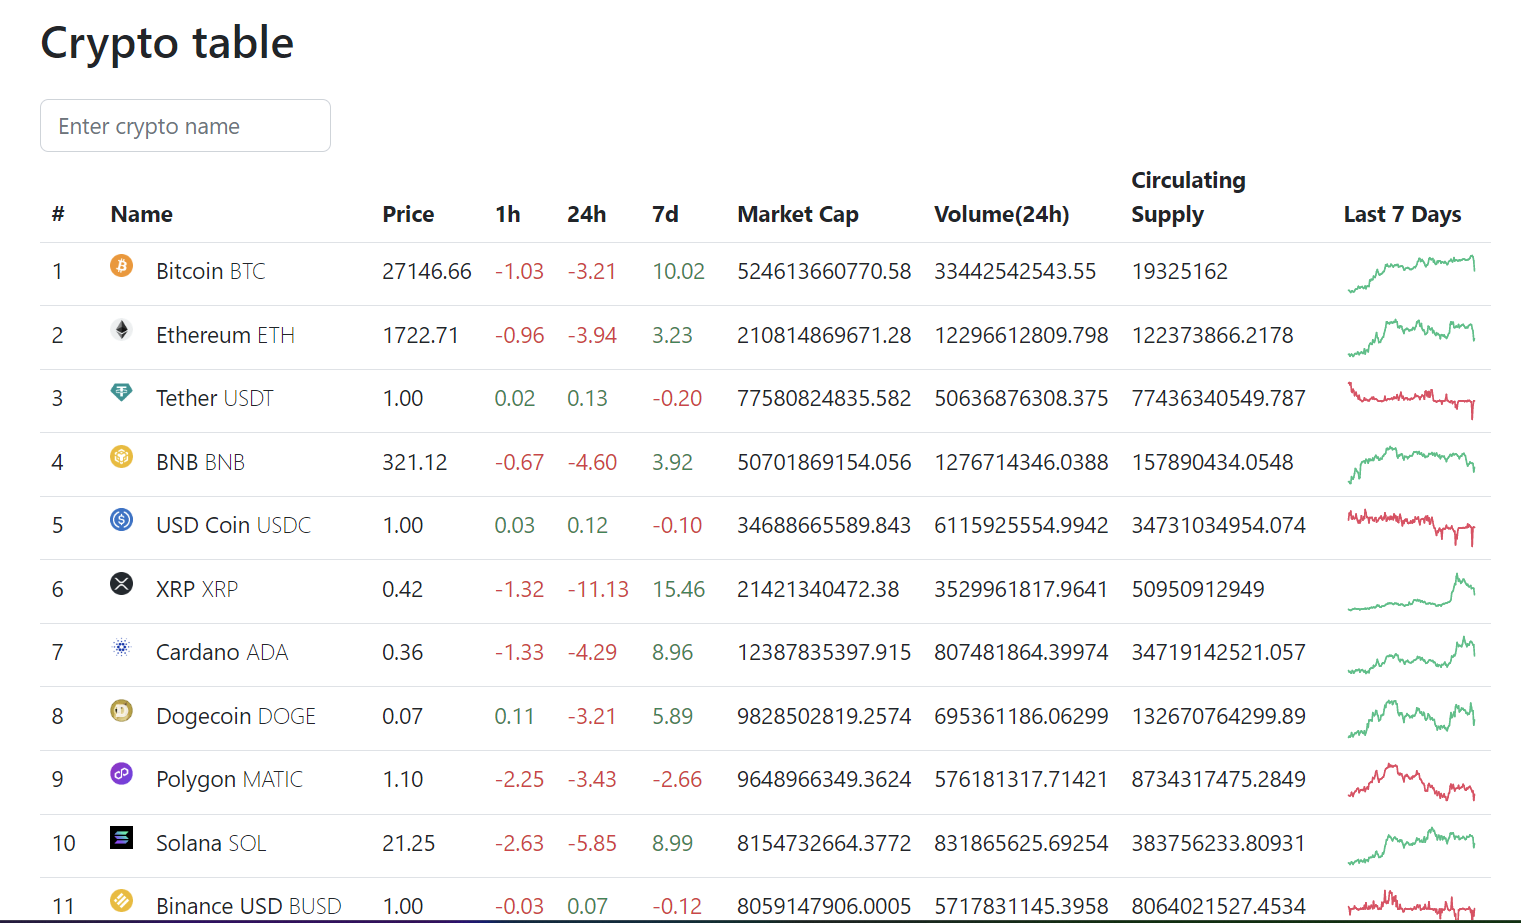
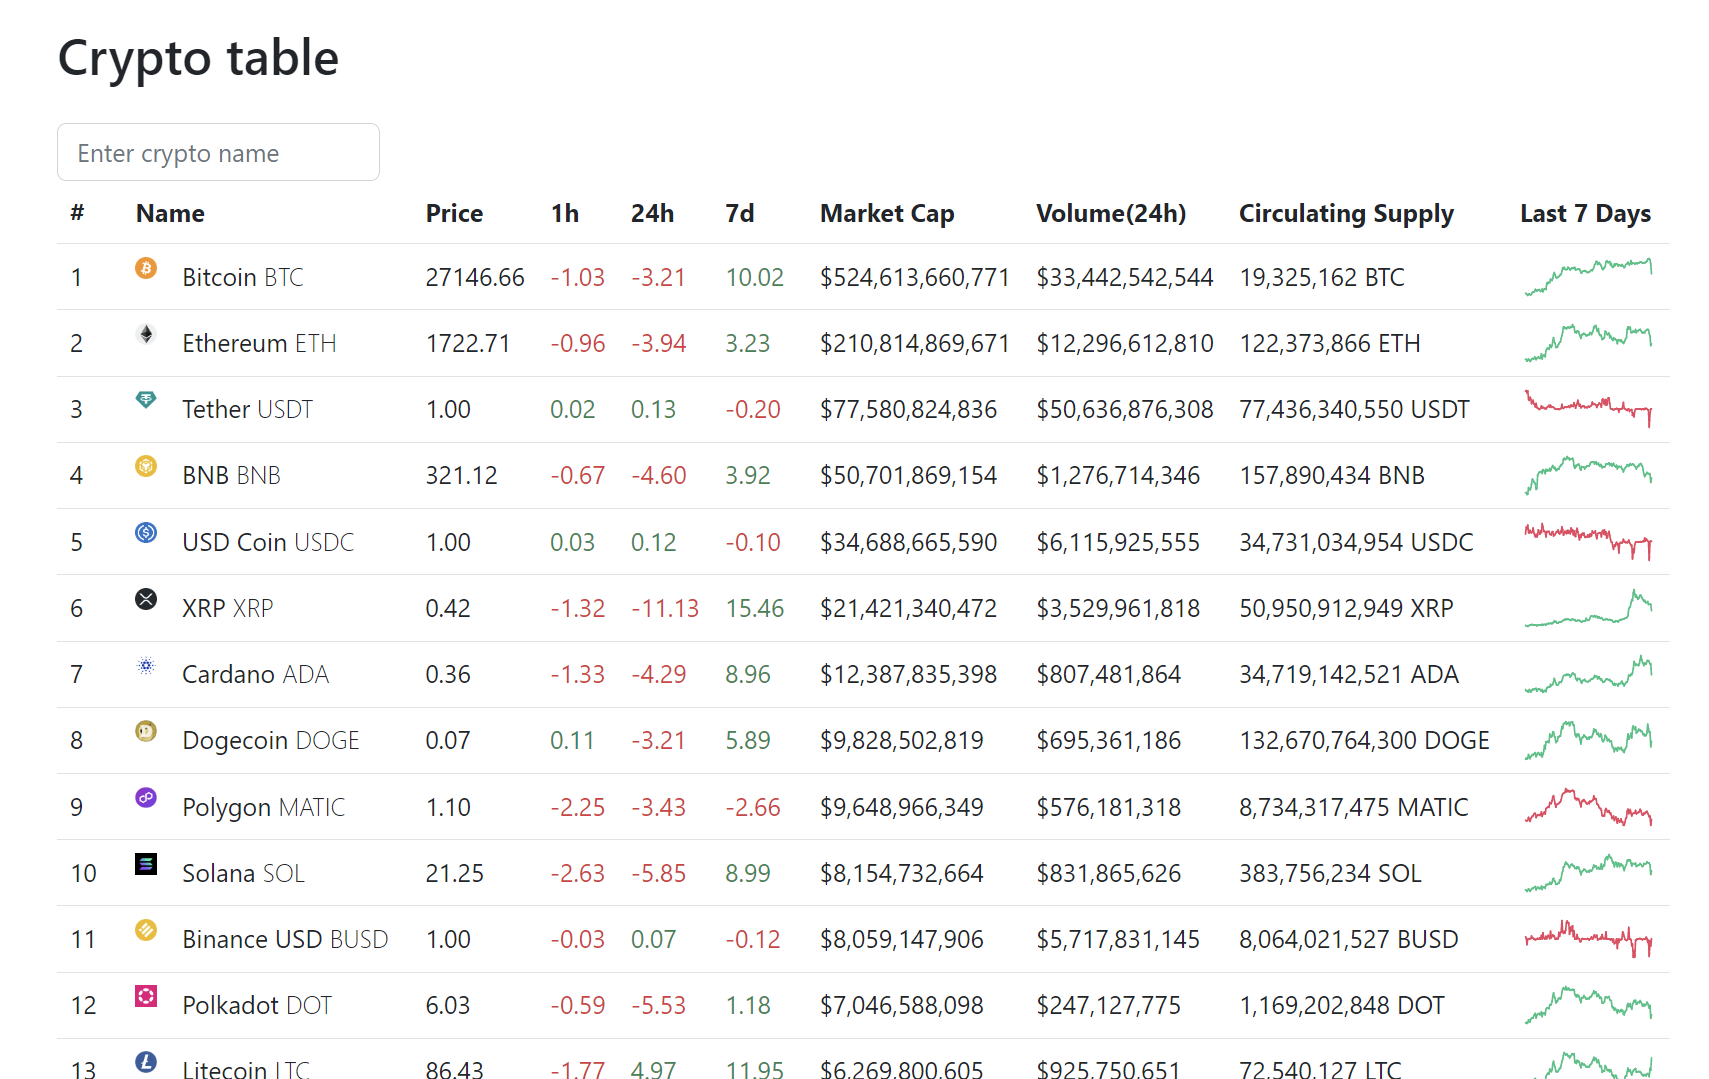
Added picture

diff --git a/app/Http/Resources/CryptoResource.php b/app/Http/Resources/CryptoResource.php
@@ -14,6 +14,11 @@ class CryptoResource extends JsonResource
      */
     public function toArray(Request $request): array
     {
-        return parent::toArray($request);
+        $trasnformetd_to_monet_format = [
+            'market_cap'         => '$' . number_format($this->market_cap),
+            'volume_24h'         => '$' . number_format($this->volume_24h),
+            'circulating_supply' => number_format($this->circulating_supply) . ' '. $this->symbol,
+        ];
+        return array_merge(parent::toArray($request), $trasnformetd_to_monet_format) ;
     }
 }
